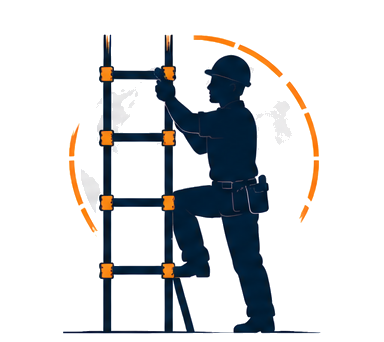
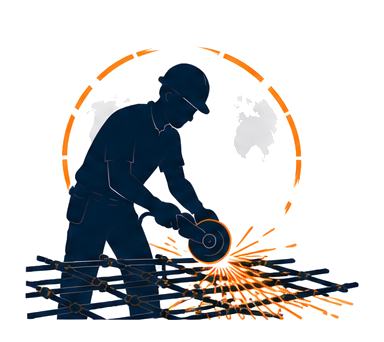
QA-R3 Phase B (part 2): profession enum rename + bigger landing CTAs + tender title hint
- #12 Profession set: rename scaffolding to ratachim, painting to gmarim, soft-disable
  electricity. Internal codes are kept stable so existing deals/searches/workers
  stay valid; only display labels change. Migration 034 + reseed updated in lockstep.
- #12 scaffolding.png swapped to the welder render (V2 worker_transparent_7).
- #31 Landing role tiles: pill CTAs grow to px-6/8 py-3/4 text-base/lg font-bold
  so the next step pops on the page.
- #32 Same tiles shrink on mobile (smaller padding, headline, icon, stat) so
  both tiles fit above the fold without being cramped.
- #3 Tender title field gains a hint explaining why a title is useful.

diff --git a/services/frontend/src/components/landing/HeroSection.tsx b/services/frontend/src/components/landing/HeroSection.tsx
@@ -212,24 +212,25 @@ export default function HeroSection(_: HeroSectionProps) {
               href={contractorCtaHref}
               onClick={(e) => { e.preventDefault(); enterRole('contractor'); }}
               aria-disabled={switching !== null}
-              className={`group flex flex-col items-center justify-center text-center bg-white hover:bg-brand-50/40 border border-slate-200 hover:border-brand-400 rounded-3xl p-7 md:p-9 shadow-sm transition-all duration-200 hover:-translate-y-0.5 hover:shadow-lg ${switching === 'contractor' ? 'opacity-80' : ''} ${switching && switching !== 'contractor' ? 'pointer-events-none opacity-50' : ''}`}
+              className={`group flex flex-col items-center justify-center text-center bg-white hover:bg-brand-50/40 border border-slate-200 hover:border-brand-400 rounded-3xl p-4 md:p-9 shadow-sm transition-all duration-200 hover:-translate-y-0.5 hover:shadow-lg ${switching === 'contractor' ? 'opacity-80' : ''} ${switching && switching !== 'contractor' ? 'pointer-events-none opacity-50' : ''}`}
             >
-              <div className="text-3xl md:text-4xl font-black text-brand-600 tracking-tight mb-4">
+              <div className="text-2xl md:text-4xl font-black text-brand-600 tracking-tight mb-2 md:mb-4">
                 קבלן
               </div>
-              <div className="h-12 w-12 rounded-2xl bg-brand-100 flex items-center justify-center mb-4">
-                <Users className="h-6 w-6 text-brand-600" />
+              <div className="h-9 w-9 md:h-12 md:w-12 rounded-2xl bg-brand-100 flex items-center justify-center mb-2 md:mb-4">
+                <Users className="h-5 w-5 md:h-6 md:w-6 text-brand-600" />
               </div>
-              <div className="text-4xl md:text-5xl font-extrabold text-slate-900 mb-1 group-hover:text-brand-700 transition-colors">
+              <div className="text-3xl md:text-5xl font-extrabold text-slate-900 mb-1 group-hover:text-brand-700 transition-colors">
                 {HERO_STAT.value}
               </div>
-              <div className="text-sm text-slate-500 mb-5">{HERO_STAT.label}</div>
-              {/* CTA styled as a pill button — affordance is obvious even
-                  though the entire tile is also clickable (R1 #5). */}
-              <div className="inline-flex items-center gap-1.5 px-4 py-2 rounded-full bg-brand-600 text-sm font-semibold text-white shadow-sm group-hover:bg-brand-700 transition-colors">
+              <div className="text-xs md:text-sm text-slate-500 mb-3 md:mb-5">{HERO_STAT.label}</div>
+              {/* CTA pill — bigger per QA-R3 #31 so the next step pops on
+                  the page; smaller padding on mobile (R3 #32) so the tile
+                  itself isn't too tall to scroll past. */}
+              <div className="inline-flex items-center gap-2 px-6 md:px-8 py-3 md:py-4 rounded-full bg-brand-600 text-base md:text-lg font-bold text-white shadow-md group-hover:bg-brand-700 transition-colors">
                 {switching === 'contractor'
-                  ? <><Loader2 className="h-4 w-4 animate-spin" /> מעביר...</>
-                  : <>חפש עובדים<ArrowLeft className="h-4 w-4 group-hover:-translate-x-1 transition-transform" /></>}
+                  ? <><Loader2 className="h-5 w-5 animate-spin" /> מעביר...</>
+                  : <>חפש עובדים<ArrowLeft className="h-5 w-5 group-hover:-translate-x-1 transition-transform" /></>}
               </div>
             </Link>
 
@@ -238,26 +239,24 @@ export default function HeroSection(_: HeroSectionProps) {
               href={corporationCtaHref}
               onClick={(e) => { e.preventDefault(); enterRole('corporation'); }}
               aria-disabled={switching !== null}
-              className={`group flex flex-col items-center justify-center text-center bg-white hover:bg-navy-50/40 border border-slate-200 hover:border-navy-400 rounded-3xl p-7 md:p-9 shadow-sm transition-all duration-200 hover:-translate-y-0.5 hover:shadow-lg ${switching === 'corporation' ? 'opacity-80' : ''} ${switching && switching !== 'corporation' ? 'pointer-events-none opacity-50' : ''}`}
+              className={`group flex flex-col items-center justify-center text-center bg-white hover:bg-navy-50/40 border border-slate-200 hover:border-navy-400 rounded-3xl p-4 md:p-9 shadow-sm transition-all duration-200 hover:-translate-y-0.5 hover:shadow-lg ${switching === 'corporation' ? 'opacity-80' : ''} ${switching && switching !== 'corporation' ? 'pointer-events-none opacity-50' : ''}`}
             >
-              <div className="text-3xl md:text-4xl font-black text-navy-600 tracking-tight mb-4">
+              <div className="text-2xl md:text-4xl font-black text-navy-600 tracking-tight mb-2 md:mb-4">
                 תאגיד
               </div>
-              <div className="h-12 w-12 rounded-2xl bg-navy-100 flex items-center justify-center mb-4">
-                <Building2 className="h-6 w-6 text-navy-600" />
+              <div className="h-9 w-9 md:h-12 md:w-12 rounded-2xl bg-navy-100 flex items-center justify-center mb-2 md:mb-4">
+                <Building2 className="h-5 w-5 md:h-6 md:w-6 text-navy-600" />
               </div>
-              <div className="text-base md:text-lg text-slate-900 font-semibold leading-snug mb-3 max-w-sm">
+              <div className="text-sm md:text-lg text-slate-900 font-semibold leading-snug mb-2 md:mb-3 max-w-sm">
                 עשרות קבלנים כבר מנויים לשירותים שלנו ומחפשים עובדים
               </div>
-              <div className="text-lg md:text-xl text-navy-600 font-bold leading-snug mb-5">
+              <div className="text-base md:text-xl text-navy-600 font-bold leading-snug mb-3 md:mb-5">
                 מנהל תאגיד — אל תישאר בחוץ
               </div>
-              {/* CTA styled as a pill button — affordance is obvious even
-                  though the entire tile is also clickable (R1 #5). */}
-              <div className="inline-flex items-center gap-1.5 px-4 py-2 rounded-full bg-navy-600 text-sm font-semibold text-white shadow-sm group-hover:bg-navy-700 transition-colors">
+              <div className="inline-flex items-center gap-2 px-6 md:px-8 py-3 md:py-4 rounded-full bg-navy-600 text-base md:text-lg font-bold text-white shadow-md group-hover:bg-navy-700 transition-colors">
                 {switching === 'corporation'
-                  ? <><Loader2 className="h-4 w-4 animate-spin" /> מעביר...</>
-                  : <>פרסם זמינות<ArrowLeft className="h-4 w-4 group-hover:-translate-x-1 transition-transform" /></>}
+                  ? <><Loader2 className="h-5 w-5 animate-spin" /> מעביר...</>
+                  : <>פרסם זמינות<ArrowLeft className="h-5 w-5 group-hover:-translate-x-1 transition-transform" /></>}
               </div>
             </Link>
           </div>

diff --git a/services/frontend/src/components/tenders/TenderForm.tsx b/services/frontend/src/components/tenders/TenderForm.tsx
@@ -200,8 +200,13 @@ export default function TenderForm({ mode, initial, onSubmit, onCancel }: Props)
       <div className="rounded-2xl border border-slate-200 bg-white shadow-sm p-4 sm:p-5 space-y-4">
         <h2 className="font-bold text-slate-900">פרטי הבקשה</h2>
         <div className="grid grid-cols-1 sm:grid-cols-2 gap-3">
-          <Input label="כותרת (אופציונלי)" placeholder="לדוגמה: עובדים לפרויקט חדש"
-            value={title} onChange={(e) => setTitle(e.target.value)} />
+          <Input
+            label="כותרת (אופציונלי)"
+            placeholder="לדוגמה: ייבוא עובדים לפרויקט חדש בחיפה"
+            hint="כדי לזהות את הבקשה בקלות ברשימת הבקשות שלך"
+            value={title}
+            onChange={(e) => setTitle(e.target.value)}
+          />
           <Input label="תאריך הגעה לארץ מבוקש" type="date"
             value={startDate} onChange={(e) => setStart(e.target.value)} />
         </div>